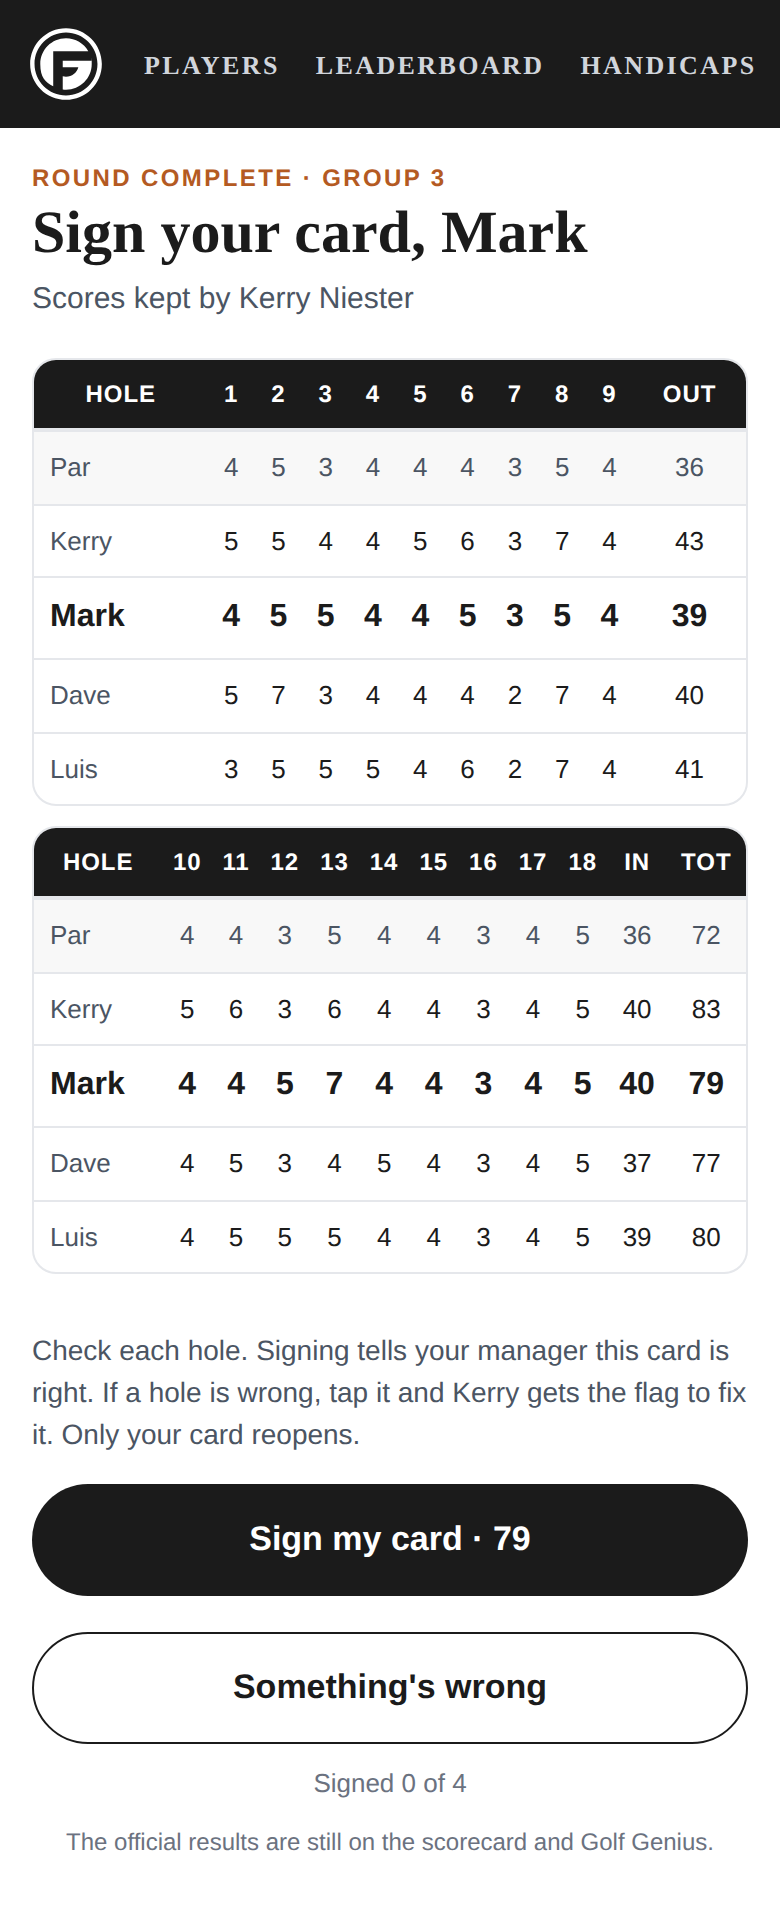
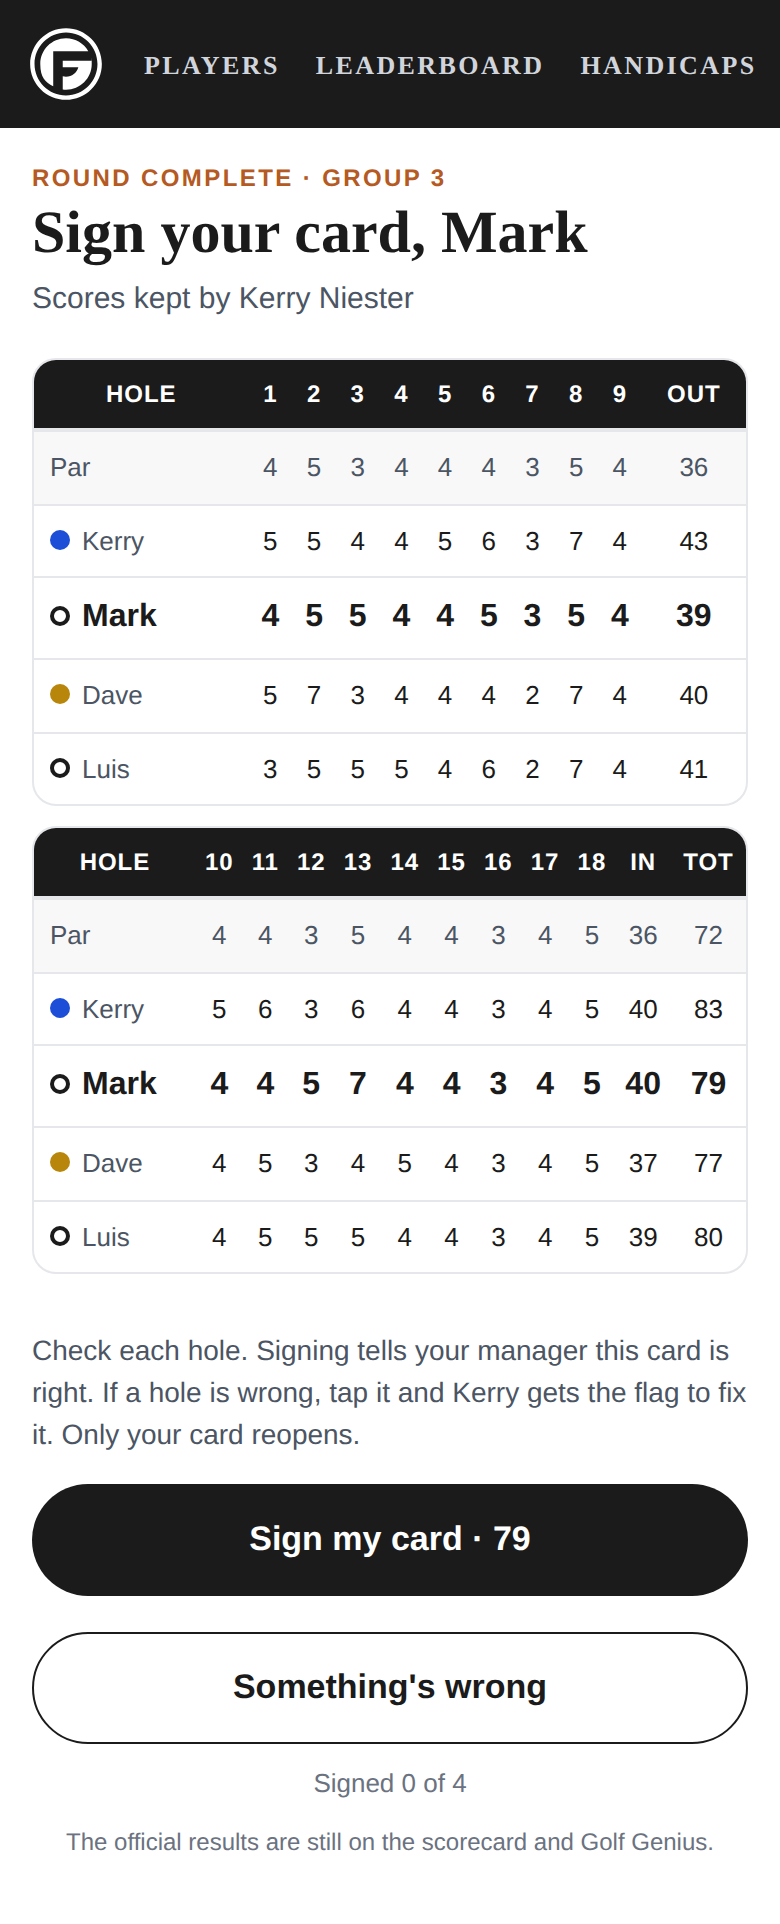
v2.493.5: score entry tee-colour bar from the tee sheet's legend (Kerry 2026-09-25)
Claude-Session: https://claude.ai/code/session_01PeGTnLppc6bpJPrSmUWsVP

diff --git a/transaction-tracker/templates/score_entry.html b/transaction-tracker/templates/score_entry.html
@@ -54,6 +54,18 @@
                          cursor: pointer; }
         .se-nav button:disabled { opacity: .35; }
         .se-keeper { display: flex; align-items: center; gap: 8px; font-size: 13px; color: #4B5563; margin: 12px 0; }
+        /* TEE BAR (Kerry 2026-09-25): the player's tee colour down the left
+           edge of his row, from the same legend as the tee sheet. Light
+           tees get a dark outline; the women's tee is an outline, as on the
+           sheet; no tee on file is neutral grey. */
+        .se-tee { position: absolute; left: 0; top: 0; bottom: 0; width: 8px;
+                  border-radius: 12px 0 0 12px; }
+        .se-tee.ring, .se-tee.light { box-shadow: inset 0 0 0 2px #1B1B1B; }
+        .se-tee.ring { background: #FFFFFF !important; }
+        .se-tee-dot { display: inline-block; width: 10px; height: 10px; border-radius: 50%;
+                      margin-right: 6px; vertical-align: 0; }
+        .se-tee-dot.ring, .se-tee-dot.light { box-shadow: inset 0 0 0 2px #1B1B1B; }
+        .se-row { position: relative; padding-left: 20px !important; }
         .se-row { display: flex; align-items: center; gap: 12px; padding: 12px 14px; border-radius: 12px;
                   background: #F8F8F8; border: 1px solid #E5E7EB; }
         .se-who { flex-grow: 1; min-width: 0; display: flex; flex-direction: column; gap: 3px; }
@@ -194,6 +206,24 @@
             const k = ((card.strokes || {})[String(cid)] || {})[String(n)];
             return k ? (k === 1 ? "gets 1 stroke here" : "gets " + k + " strokes here") : "";
         }
+        // The tee a player plays, from the tee sheet's legend (card.tees).
+        function teeOf(cid) {
+            const band = (byId(cid).tee || "").trim();
+            const t = band && (card.tees || {})[band];
+            if (!t || !t.color) return {color: "#9CA3AF", cls: "none", name: ""};
+            const hex = t.color.replace("#", "");
+            const r = parseInt(hex.slice(0, 2), 16), gg = parseInt(hex.slice(2, 4), 16), b = parseInt(hex.slice(4, 6), 16);
+            const light = (0.299 * r + 0.587 * gg + 0.114 * b) > 170;   // white, yellow and the like
+            return {color: t.color, cls: t.ring ? "ring" : light ? "light" : "", name: t.tee_name || t.band_label || band};
+        }
+        function teeBar(cids) {
+            const t = cids && cids.length === 1 ? teeOf(cids[0]) : {color: "#9CA3AF", cls: "none"};
+            return `<span class="se-tee ${t.cls}" style="background:${t.color}${t.cls === "ring" ? ";box-shadow:inset 0 0 0 3px " + t.color : ""}" aria-hidden="true"></span>`;
+        }
+        function teeDot(cid) {
+            const t = teeOf(cid);
+            return `<span class="se-tee-dot ${t.cls}" style="background:${t.cls === "ring" ? "#fff" : t.color}${t.cls === "ring" ? ";box-shadow:inset 0 0 0 2px " + t.color : ""}" aria-hidden="true"></span>`;
+        }
         function signed(cid, kind) { return (card.signoffs || []).some((s) => s.customer_id === cid && s.kind === (kind || "player")); }
         function openFlags(cid) { return (card.flags || []).filter((f) => f.customer_id === cid); }
         const eyebrow = () => [card.round_label, card.group_num != null ? "Group " + card.group_num : null].filter(Boolean).join(" · ");
@@ -266,8 +296,8 @@
                 const shown = cur.v == null ? (h.par || "–") : cur.v;
                 const d = cur.v == null || !h.par ? null : cur.v - h.par;
                 const rel = d == null ? "" : (WORDS[String(d)] || (d > 0 ? "+" + d : String(d)));
-                const meta2 = s.team ? s.meta : [s.ph != null ? "PH " + s.ph : null, strokeNote(s.cid, hole)].filter(Boolean).join(" · ");
-                return `<div class="se-row" data-key="${s.key}">
+                const meta2 = s.team ? s.meta : [teeOf(s.cid).name || null, s.ph != null ? "PH " + s.ph : null, strokeNote(s.cid, hole)].filter(Boolean).join(" · ");
+                return `<div class="se-row" data-key="${s.key}">${teeBar(s.cids)}
                     <div class="se-who"><div class="se-name">${esc(s.name)}</div><div class="se-meta">${esc(meta2)}</div></div>
                     <button type="button" class="se-minus" data-act="step" data-d="-1" aria-label="One less for ${esc(s.name)}">&minus;</button>
                     <div class="se-score"><div class="v ${cur.v == null ? "empty" : cur.waiting ? "waiting" : ""}">${shown}</div><div class="r">${rel}</div></div>
@@ -310,7 +340,7 @@
             const rows = subjects().map((s) => {
                 const t = order.reduce((a, n) => a + (value(s.key, n).v || 0), 0);
                 const d = par ? t - par : null;
-                return `<div class="se-row"><div class="se-who"><div class="se-name">${esc(s.name)}</div></div>
+                return `<div class="se-row">${teeBar(s.cids)}<div class="se-who"><div class="se-name">${esc(s.name)}</div></div>
                     <div class="se-score"><div class="v">${t}</div><div class="r">${d == null ? "" : d === 0 ? "Even" : (d > 0 ? "+" + d : d)}</div></div></div>`;
             }).join("");
             return `<div class="se-eyebrow">${esc(eyebrow())}</div>
@@ -366,7 +396,7 @@
             const rows = subjects().map((s) => {
                 const t = firstNine.reduce((a, n) => a + (value(s.key, n).v || 0), 0);
                 const d = par ? t - par : null;
-                return `<div class="se-row"><div class="se-who"><div class="se-name">${esc(s.name)}</div></div>
+                return `<div class="se-row">${teeBar(s.cids)}<div class="se-who"><div class="se-name">${esc(s.name)}</div></div>
                     <div class="se-score"><div class="v">${t || "–"}</div><div class="r">${d == null ? "" : d === 0 ? "Even" : (d > 0 ? "+" + d : d)}</div></div></div>`;
             }).join("");
             return `<div class="se-eyebrow">${esc(eyebrow())} · The turn</div>
@@ -395,7 +425,7 @@
                     return `<td class="${fl ? "flagged" : ""}">${isMe && flagging ? `<button type="button" class="hole" data-act="flaghole" data-h="${n}">${cell}</button>` : cell}</td>`;
                 }).join("");
                 const tot = all.reduce((a, n) => a + (value(s.key, n).v || 0), 0);
-                return `<tr class="${isMe ? "me" : ""}"><td class="nm">${esc(first(s.name) || s.name)}</td>${cells}<td>${sub || ""}</td>${withTotal ? `<td>${tot || ""}</td>` : ""}</tr>`;
+                return `<tr class="${isMe ? "me" : ""}"><td class="nm">${s.cids.length === 1 ? teeDot(s.cids[0]) : ""}${esc(first(s.name) || s.name)}</td>${cells}<td>${sub || ""}</td>${withTotal ? `<td>${tot || ""}</td>` : ""}</tr>`;
             }).join("");
             return `<div class="se-card" style="margin-bottom:10px"><table><thead>${head}</thead><tbody>${par}${rows}</tbody></table></div>`;
         }

diff --git a/transaction-tracker/static/js/version.js b/transaction-tracker/static/js/version.js
@@ -1,5 +1,13 @@
-window.TGF_VERSION = "2.493.4";
+window.TGF_VERSION = "2.493.5";
 window.TGF_CHANGELOG = [
+  {
+    version: "2.493.5",
+    date: "2026-09-25",
+    title: "Score entry: each player's tee colour, as on the tee sheet",
+    changes: [
+      "Kerry, 2026-09-25: 'Show a color bar on left side of name blocks for each hole that are the color of player tees that would match tee sheets.' Every player row on the scorekeeper's hole screen, the turn and the review carries a bar down its left edge in the player's tee colour, and the read-only card and the sign-your-card screen show the same colour as a dot beside each name, with the tee named in the row ('White Tees · PH 8'). The colour comes from the one tee legend the starter sheet and print pack already use (event_tee_legend), so the screen and the paper can't disagree. White and other light tees get a dark outline; the women's tee is an outline, as on the sheet; a player with no tee on file gets a neutral grey bar, never a guessed tee."
+    ]
+  },
   {
     version: "2.493.4",
     date: "2026-09-25",

diff --git a/transaction-tracker/test_score_entry.py b/transaction-tracker/test_score_entry.py
@@ -359,6 +359,32 @@ check("closing kills the link", se.verify_group_token(ptok) is None)
 check("closed round's rows are kept", any(r["round_id"] == pv["round_id"]
                                           for r in se.get_entered_scores(900)["rounds"]))
 
+print("tee colour bar (Kerry 2026-09-25): the tee sheet's own legend")
+cc = sqlite3.connect(DB); cc.row_factory = sqlite3.Row
+db._ensure_scoring_tables(cc)
+cc.execute("INSERT INTO courses (course_id, name) VALUES (7700, 'Tee Test GC')")
+for tid, nm, gen, bands in [(77001, "Blue", "M", "<50"), (77002, "White", "M", "50-64,65+"),
+                            (77003, "Red (L)", "F", "Forward")]:
+    cc.execute("INSERT INTO course_tees (tee_id, course_id, tee_name, gender, holes, rating, slope, "
+               "yardage_total, tgf_bands) VALUES (?,?,?,?,18,70.1,125,6400,?)", (tid, 7700, nm, gen, bands))
+cc.execute("INSERT INTO events (id, item_name, event_date, course_id) VALUES (901, 'Tee test', '2026-09-29', 7700)")
+cc.commit()
+legend = {t_["band"]: t_ for t_ in db.event_tee_legend(cc, 901, dict(cc.execute("SELECT * FROM events WHERE id=901").fetchone()))}
+cc.close()
+tr = se.create_round(901, 9, course_holes=NINE)["round_id"]
+tg = se.upsert_group(tr, 1, players=[
+    {"customer_id": 101, "display_name": "Kerry Niester", "tee": "<50"},
+    {"customer_id": 102, "display_name": "Adam Baker", "tee": "50-64"},
+    {"customer_id": 103, "display_name": "Chris Best", "tee": "Forward"},
+    {"customer_id": 104, "display_name": "Robert Hogue"}])["group_id"]
+tees = se.get_group_card(tg)["tees"]
+check("the card carries the tee sheet's legend, colour for colour",
+      set(tees) == set(legend) and all(tees[b]["color"] == legend[b]["color"] for b in legend), (tees, legend))
+check("the women's tee is marked as an outline, as on the sheet", tees.get("Forward", {}).get("ring") is True, tees)
+check("a player with no tee has no colour here (the screen shows grey, never a guess)",
+      not se.get_group_card(tg)["players"][3]["tee"])
+check("an event with no course card gives no colours, not an error", se.get_group_card(gid)["tees"] == {})
+
 print("HTTP (admin builds, scorer by link, flag off until Kerry OKs)")
 os.environ.setdefault("SECRET_KEY", "test-secret")
 with contextlib.redirect_stdout(io.StringIO()), contextlib.redirect_stderr(io.StringIO()):

diff --git a/transaction-tracker/email_parser/score_entry.py b/transaction-tracker/email_parser/score_entry.py
@@ -1270,6 +1270,24 @@ def _strokes_by_player(players, course) -> dict:
     return out
 
 
+def _tee_legend(conn, event_id: int) -> dict:
+    """{band: {color, ring, tee_name, band_label}} from the ONE tee legend
+    the starter sheet and print pack use (database.event_tee_legend, v2.437+
+    tee circles). A player's se_players.tee is his band. A band the legend
+    does not carry, or no tee at all, gets no colour here and the screen
+    shows a neutral grey bar: we never guess a tee."""
+    try:
+        from email_parser.database import event_tee_legend
+        ev = conn.execute("SELECT * FROM events WHERE id = ?", (event_id,)).fetchone()
+        if not ev:
+            return {}
+        return {t["band"]: {"color": t.get("color"), "ring": bool(t.get("ring") or t.get("ladies")),
+                            "tee_name": t.get("tee_name"), "band_label": t.get("band_label")}
+                for t in event_tee_legend(conn, event_id, dict(ev)) if t.get("band")}
+    except Exception:
+        return {}
+
+
 def _card_extras(conn, g, group_id: int) -> dict:
     signoffs = [dict(r) for r in conn.execute(
         "SELECT customer_id, kind, signed_by_customer_id, at FROM se_signoffs "
@@ -1297,6 +1315,7 @@ def _card_extras(conn, g, group_id: int) -> dict:
         "SELECT hole_number AS hole, stroke_index FROM se_round_holes WHERE round_id = ?",
         (g["round_id"],))]
     return {"signoffs": signoffs, "flags": flags, "ctp": ctp, "hio": hio,
+            "tees": _tee_legend(conn, g["event_id"]),
             "strokes": _strokes_by_player(players, course),
             "strokes_note": "strokes per GG convention" if g["holes"] == 9 else None}
 

diff --git a/transaction-tracker/test_score_entry_ui.py b/transaction-tracker/test_score_entry_ui.py
@@ -121,6 +121,10 @@ with sync_playwright() as p:
     print("nine holes, start on 1")
     rid9, gid9, tok9 = make(9, 1, "nine")
     pg = open_as_kerry(tok9)
+    bars = pg.locator(".se-row .se-tee")
+    check("every player row carries a tee bar", bars.count() == 2, bars.count())
+    check("no tee on file shows the neutral grey bar, not a guessed tee",
+          "rgb(156, 163, 175)" in bars.nth(0).evaluate("e => getComputedStyle(e).backgroundColor"))
     # max triple on hole 1 (par 4): + stops at 7
     for _ in range(6):
         pg.locator(".se-row").nth(0).locator(".se-plus").click()

diff --git a/transaction-tracker/docs/claude/score-entry.md b/transaction-tracker/docs/claude/score-entry.md
@@ -97,6 +97,18 @@ on the page — green means bought in.
   PAIRINGS view — Seed from pairings, each group's link and QR, round status
   and a Close button — so Kerry never needs a bridge.
 
+## Tee colour bar (v2.493.5)
+
+Kerry, 2026-09-25: "Show a color bar on left side of name blocks for each
+hole that are the color of player tees that would match tee sheets." The
+group card carries `tees` = `_tee_legend(event)`, a view of
+`database.event_tee_legend` (the starter-sheet / print-pack legend, no
+second colour map), keyed by band; a player's `se_players.tee` is his band.
+Hole, turn and review rows get a left bar; the read-only and sign-off cards
+get a dot. Light tees (white, yellow) get a dark outline; the women's tee
+(`ring`) is an outline; no tee on file → neutral grey. The PREVIEW round's
+players carry no tee (no PAIRINGS behind it), so its bars are grey.
+
 ## Every hole is in (v2.493.4)
 
 Kerry, 2026-09-25: "Save last hole shouldn't be available after you saved
